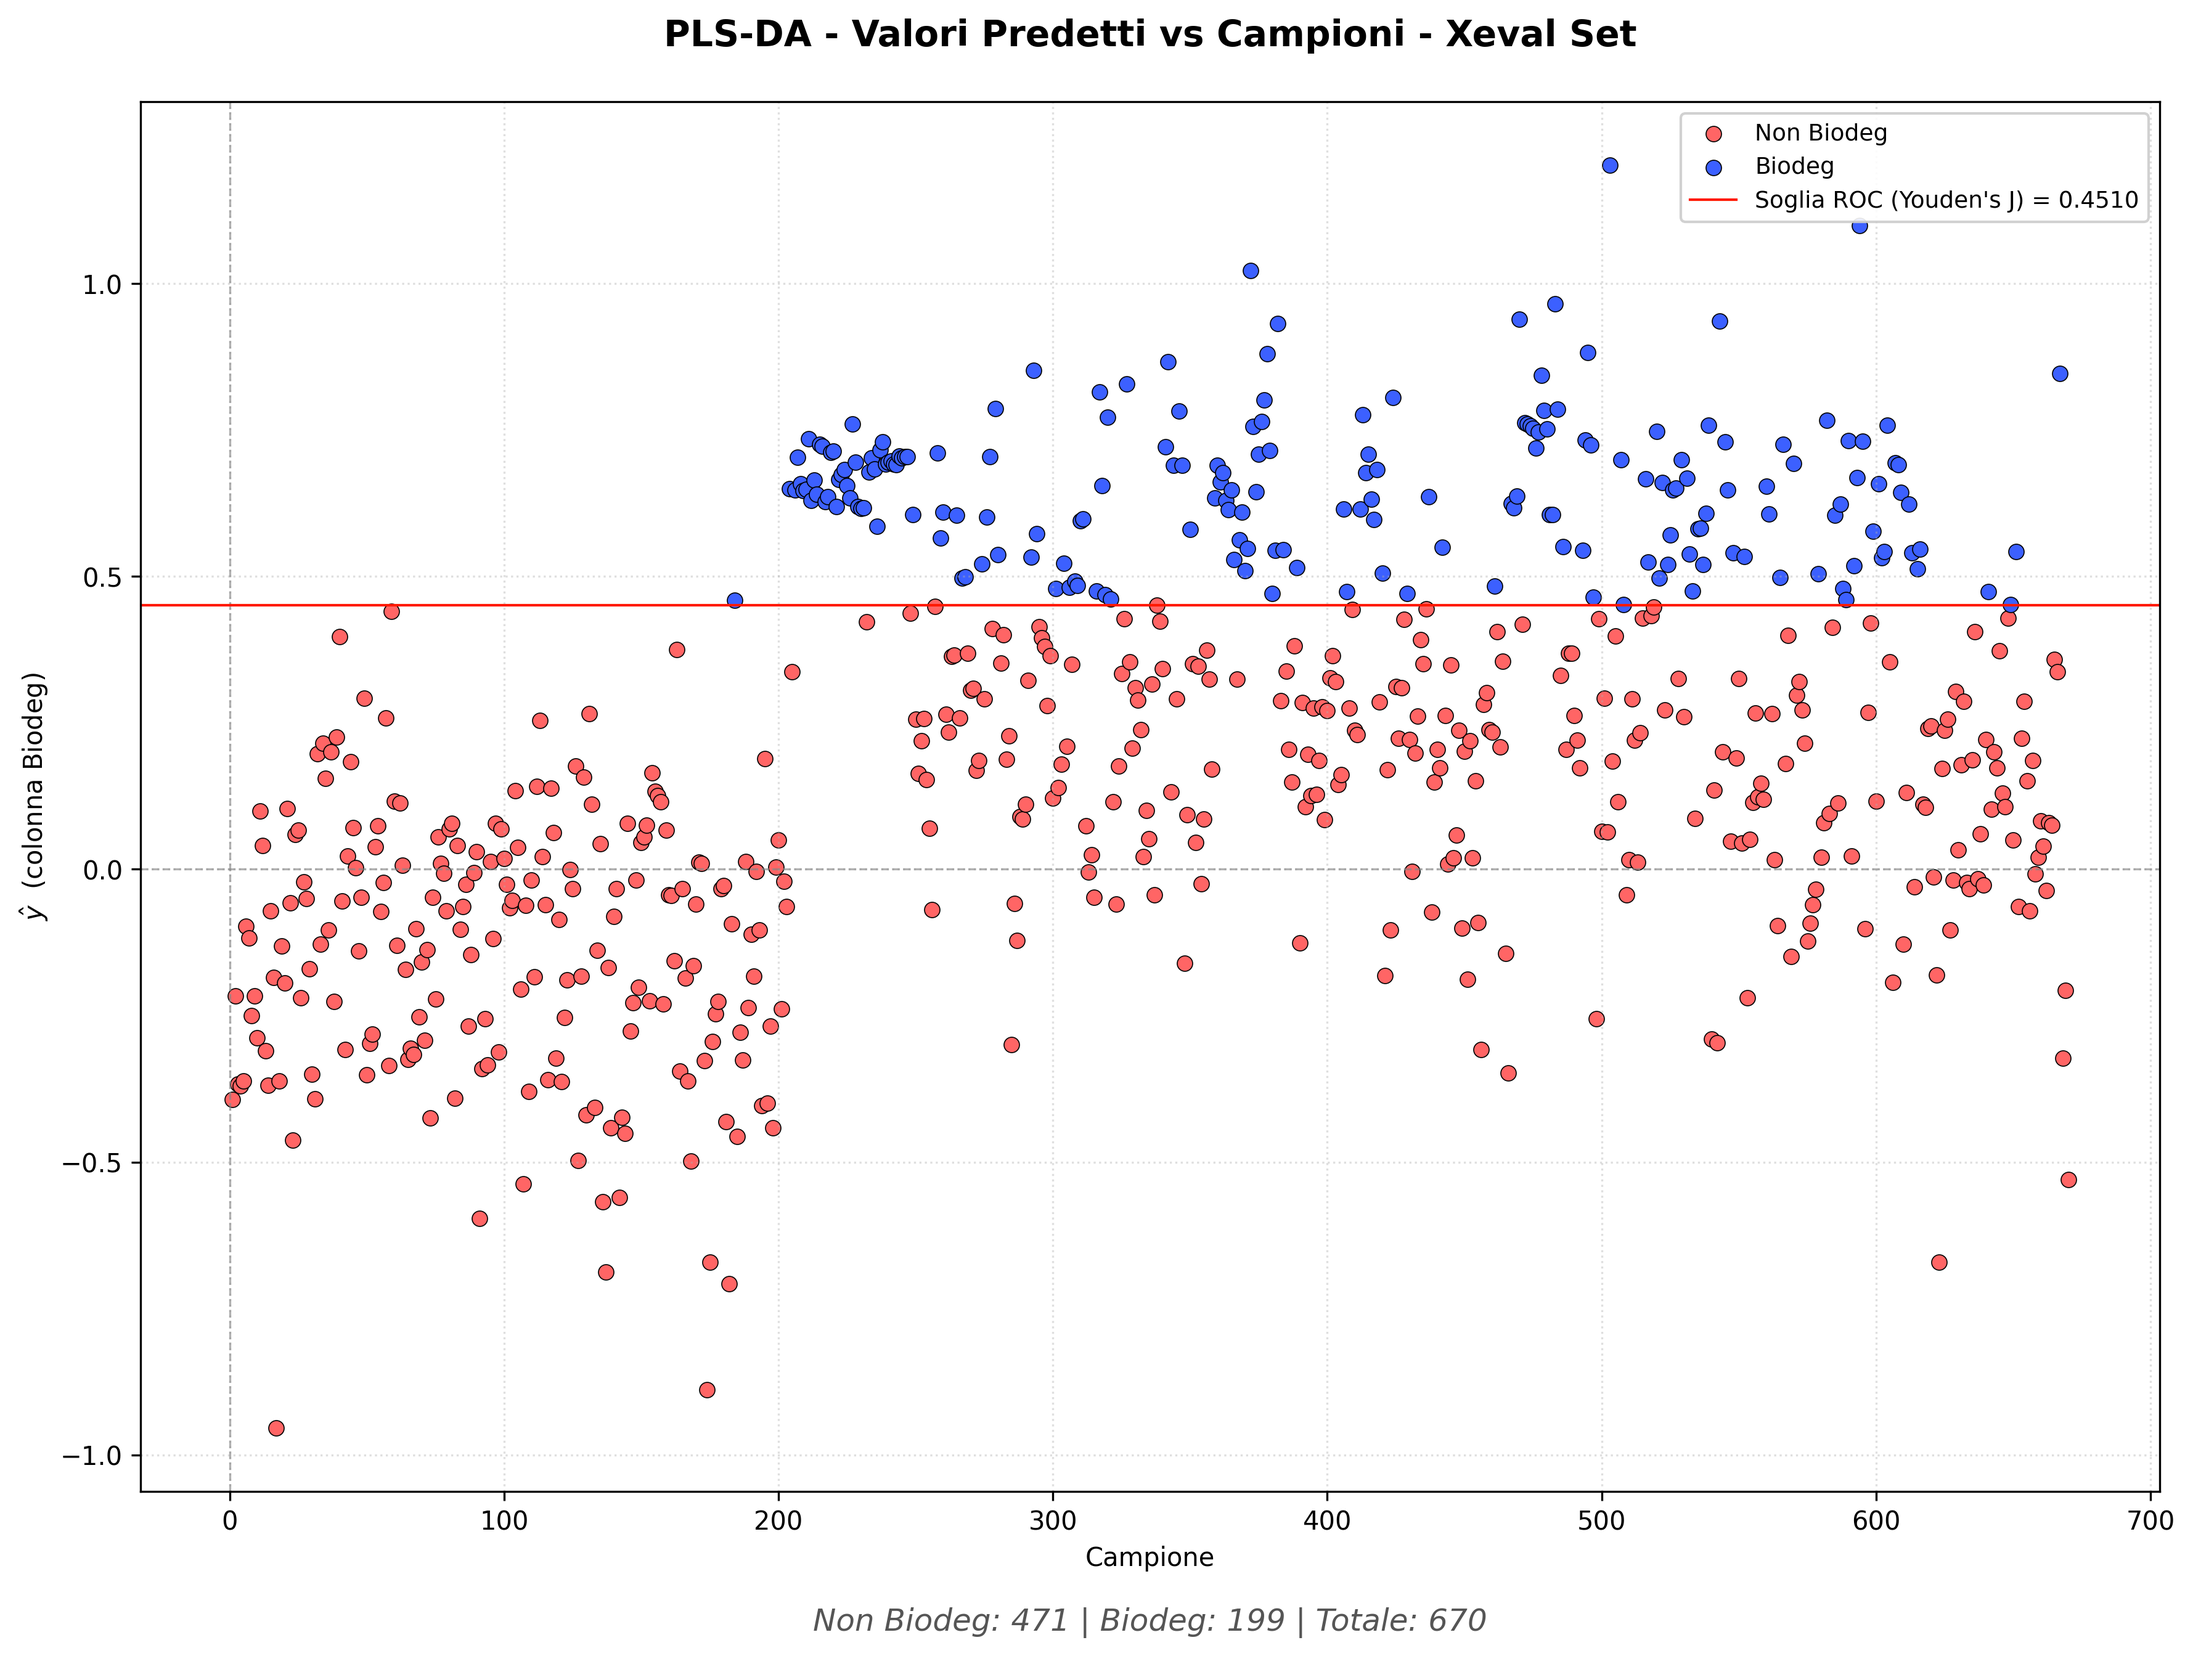
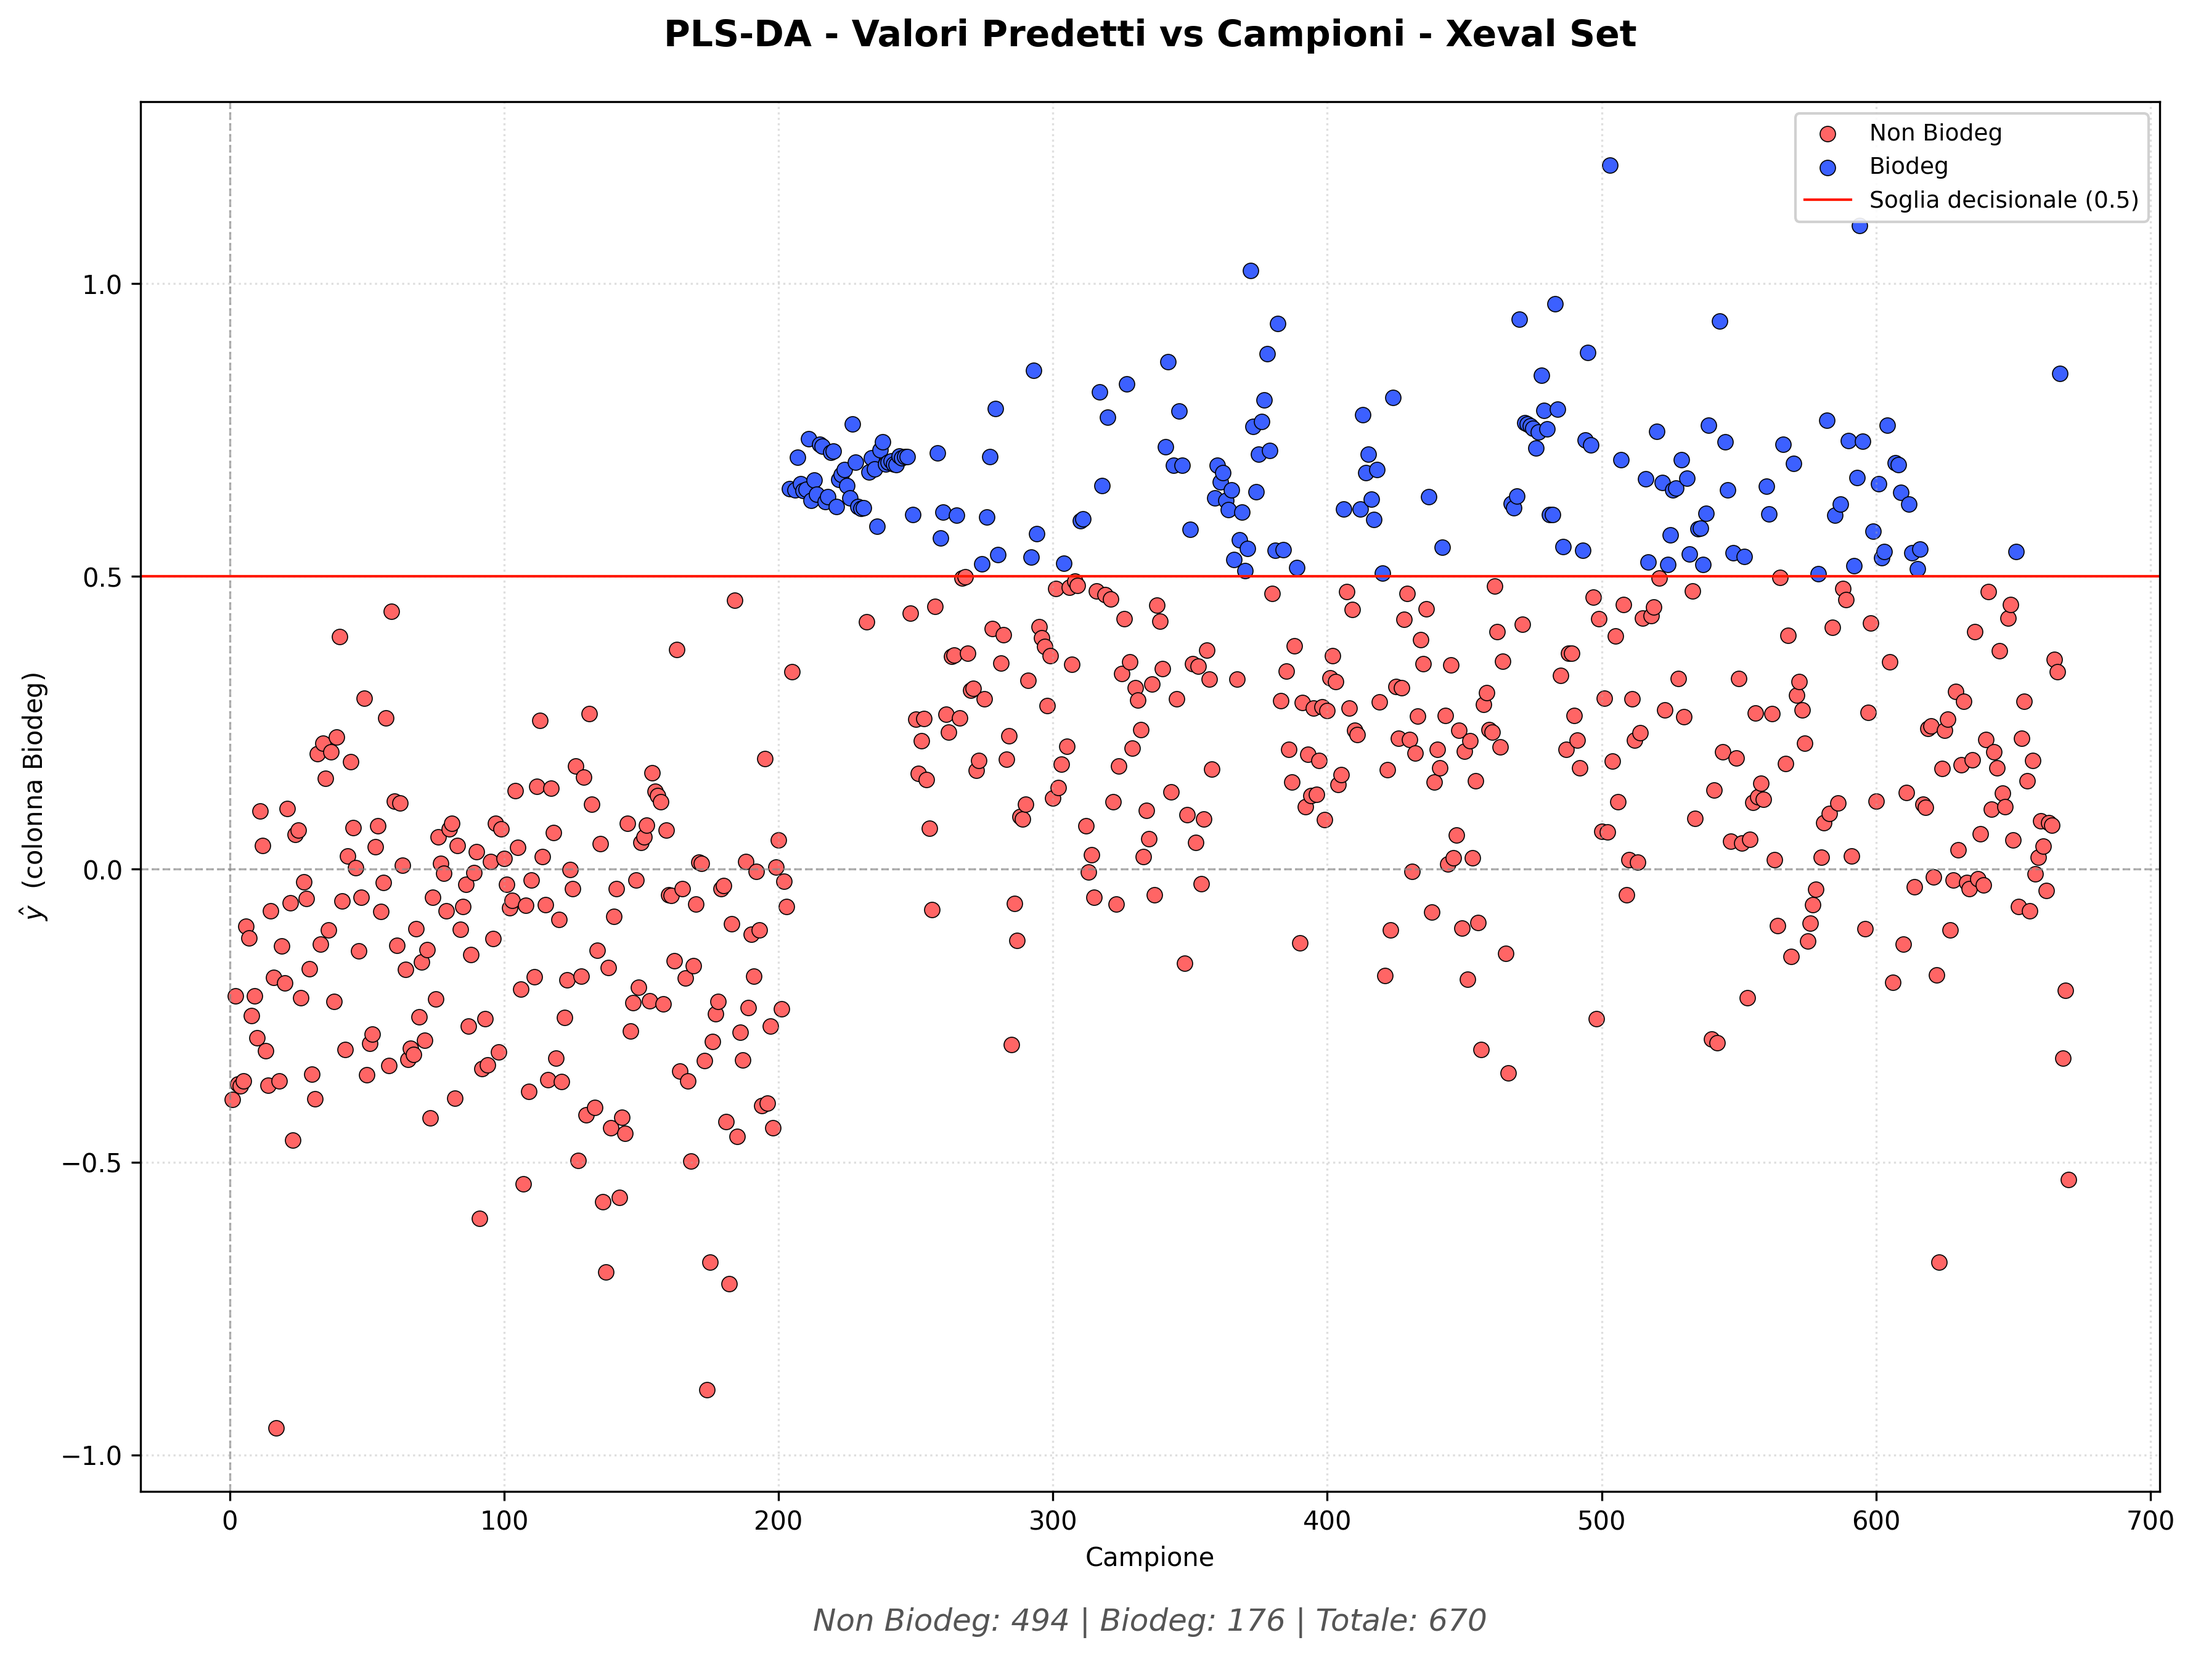
Modifiche

diff --git a/Progetto/plots.py b/Progetto/plots.py
@@ -572,7 +572,7 @@ def plot_plsda_scores(model, X, labels, filename="PLSDA_scores.png"):
     print(f"  \u2713 Salvato: {filename}")
 
 
-def plot_ypred_combined(model, X_train, y_train, X_test, y_test, threshold=0.5, filename="PLSDA_ypred_combined.png"):
+def plot_ypred_combined(model, X_train, y_train, X_test, y_test, filename="PLSDA_ypred_combined.png"):
     """
     Y Predicted Plot combinato (Training + Test).
 
@@ -641,13 +641,13 @@ def plot_ypred_combined(model, X_train, y_train, X_test, y_test, threshold=0.5, 
     print(f"  \u2713 Salvato: {filename}")
 
 
-def plot_ypred_vs_actual(model, X, y_true, threshold=0.5, filename="PLSDA_ypred_vs_actual.png"):
+def plot_ypred_vs_actual(model, X, y_true, filename="PLSDA_ypred_vs_actual.png"):
     """
     Grafico dei valori predetti (y_pred continuo) vs campioni.
 
     Usa la colonna Biodeg (indice 1) della predizione dummy:
       - y_pred ~ 1 → Biodeg,  y_pred ~ 0 → Non Biodeg.
-    La soglia di decisione è posta a 0.5 (metà tra 0 e 1).
+    La soglia di decisione è posta a 0.5 (coerente con argmax).
 
     I campioni sono colorati per classe reale; quelli che cadono
     dal lato sbagliato della soglia sono evidenziati con un bordo rosso.
@@ -658,8 +658,8 @@ def plot_ypred_vs_actual(model, X, y_true, threshold=0.5, filename="PLSDA_ypred_
     n = len(y_true)
     x_idx = np.arange(1, n + 1)
 
-    # Classificazione predetta
-    y_pred_class = (y_pred_cont >= threshold).astype(int) + 1   # 1 o 2
+    # Classificazione predetta (argmax ≡ soglia 0.5)
+    y_pred_class = np.argmax(y_pred_dummy, axis=1) + 1   # 1 o 2
     misclass = y_pred_class != y_true
 
     fig, ax = plt.subplots(figsize=(12, 9))
@@ -683,7 +683,7 @@ def plot_ypred_vs_actual(model, X, y_true, threshold=0.5, filename="PLSDA_ypred_
                    marker="X", s=60, edgecolors="red", linewidths=0.4,
                    label=f"Misclassificati")
 
-    ax.axhline(threshold, color="#FF1900", ls="-", lw=1, label=f"Soglia ROC (Youden's J) = {threshold:.4f}")
+    ax.axhline(0.5, color="#FF1900", ls="-", lw=1, label="Soglia decisionale (0.5)")
     ax.set_xlabel("Campione")
     ax.set_ylabel("$\\hat{y}$  (colonna Biodeg)")
     plot_name = "Training Set" if "train" in filename.lower() else "Test Set"
@@ -697,11 +697,12 @@ def plot_ypred_vs_actual(model, X, y_true, threshold=0.5, filename="PLSDA_ypred_
     print(f"  \u2713 Salvato: {filename}")
 
 
-def plot_ypred_eval(model, X, threshold=0.5, filename="PLSDA_ypred_eval.png"):
+def plot_ypred_eval(model, X, filename="PLSDA_ypred_eval.png"):
     """
     Grafico dei valori predetti (y_pred continuo) vs campioni per Xeval.
 
-    Non essendoci classi reali, i campioni sono colorati per classe PREDETTA.
+    Non essendoci classi reali, i campioni sono colorati per classe PREDETTA
+    tramite argmax (equivalente a soglia 0.5).
     """
     y_pred_dummy = model.predict(X)     # (n, 2)
     y_pred_cont  = y_pred_dummy[:, 1]   # colonna Biodeg: 0…1
@@ -709,8 +710,8 @@ def plot_ypred_eval(model, X, threshold=0.5, filename="PLSDA_ypred_eval.png"):
     n = len(y_pred_cont)
     x_idx = np.arange(1, n + 1)
 
-    # Classificazione predetta
-    y_pred_class = (y_pred_cont >= threshold).astype(int) + 1   # 1 o 2
+    # Classificazione predetta (argmax ≡ soglia 0.5)
+    y_pred_class = np.argmax(y_pred_dummy, axis=1) + 1   # 1 o 2
     n1 = (y_pred_class == 1).sum()
     n2 = (y_pred_class == 2).sum()
 
@@ -729,7 +730,7 @@ def plot_ypred_eval(model, X, threshold=0.5, filename="PLSDA_ypred_eval.png"):
 
     ax.axhline(0, color="gray", ls="--", lw=0.8, alpha=0.6)
     ax.axvline(0, color="gray", ls="--", lw=0.8, alpha=0.6)
-    ax.axhline(threshold, color="#FF1900", ls="-", lw=1, label=f"Soglia ROC (Youden's J) = {threshold:.4f}")
+    ax.axhline(0.5, color="#FF1900", ls="-", lw=1, label="Soglia decisionale (0.5)")
     ax.set_xlabel("Campione")
     ax.set_ylabel("$\\hat{y}$  (colonna Biodeg)")
     ax.set_title(f"PLS-DA - Valori Predetti vs Campioni - Xeval Set\n", fontsize=14, fontweight="bold")

diff --git a/Progetto/progetto.py b/Progetto/progetto.py
@@ -177,12 +177,11 @@ if __name__ == "__main__":
     plot_plsda_scores(pls_da, X_train_s, y_train, "3_PLSDA/PLSDA_scores.png")
 
     # Grafico y_pred vs campioni (train + test)
-    plot_ypred_vs_actual(pls_da, X_train_s, y_train, threshold=optimal_threshold, filename="3_PLSDA/PLSDA_ypred_train.png")
-    plot_ypred_vs_actual(pls_da, X_test_s, y_test, threshold=optimal_threshold, filename="3_PLSDA/PLSDA_ypred_test.png")
+    plot_ypred_vs_actual(pls_da, X_train_s, y_train, filename="3_PLSDA/PLSDA_ypred_train.png")
+    plot_ypred_vs_actual(pls_da, X_test_s, y_test, filename="3_PLSDA/PLSDA_ypred_test.png")
 
     # Y Predicted Plot combinato (Training + Test) con entrambe le colonne dummy
     plot_ypred_combined(pls_da, X_train_s, y_train, X_test_s, y_test,
-                        threshold=optimal_threshold,
                         filename="3_PLSDA/PLSDA_ypred_combined.png")
 
     # =====================================================================
@@ -342,7 +341,6 @@ if __name__ == "__main__":
         final_model  = pls_da
         final_X_eval = X_eval_s
         model_type   = "completo"
-        eval_threshold = optimal_threshold
     else:
         # Cerca nel dizionario dei risultati
         found = False
@@ -360,14 +358,12 @@ if __name__ == "__main__":
                     f"{best_row['model']}",
                     "5_Selezione/Confusion_matrix_best_reduced.png",
                 )
-                eval_threshold = res_data["optimal_threshold"]
                 found = True
                 break
         if not found:
             final_model  = pls_da
             final_X_eval = X_eval_s
             model_type   = "completo"
-            eval_threshold = optimal_threshold
 
     # =====================================================================
     # 5b.  APPLICABILITY  DOMAIN
@@ -429,7 +425,7 @@ if __name__ == "__main__":
     y_eval_pred = np.argmax(final_model.predict(final_X_eval), axis=1) + 1
 
     # Grafico y_pred vs campioni per Xeval
-    plot_ypred_eval(final_model, final_X_eval, threshold=eval_threshold,
+    plot_ypred_eval(final_model, final_X_eval,
                     filename="3_PLSDA/PLSDA_ypred_eval.png")
 
     n1 = int((y_eval_pred == 1).sum())
